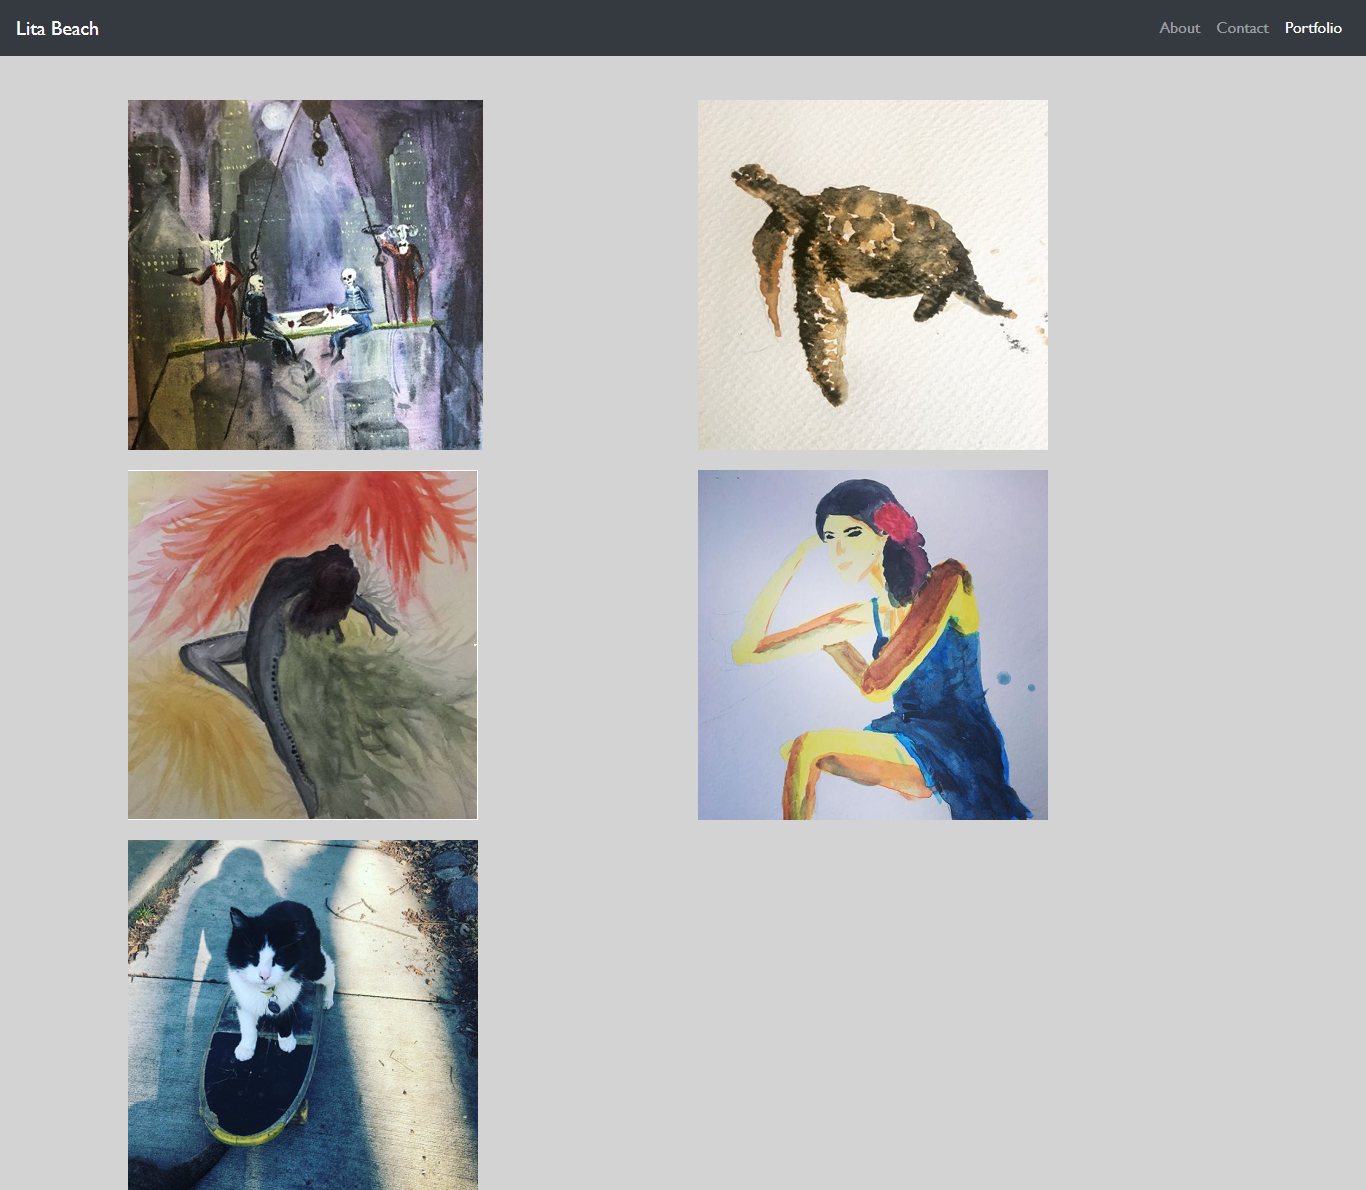
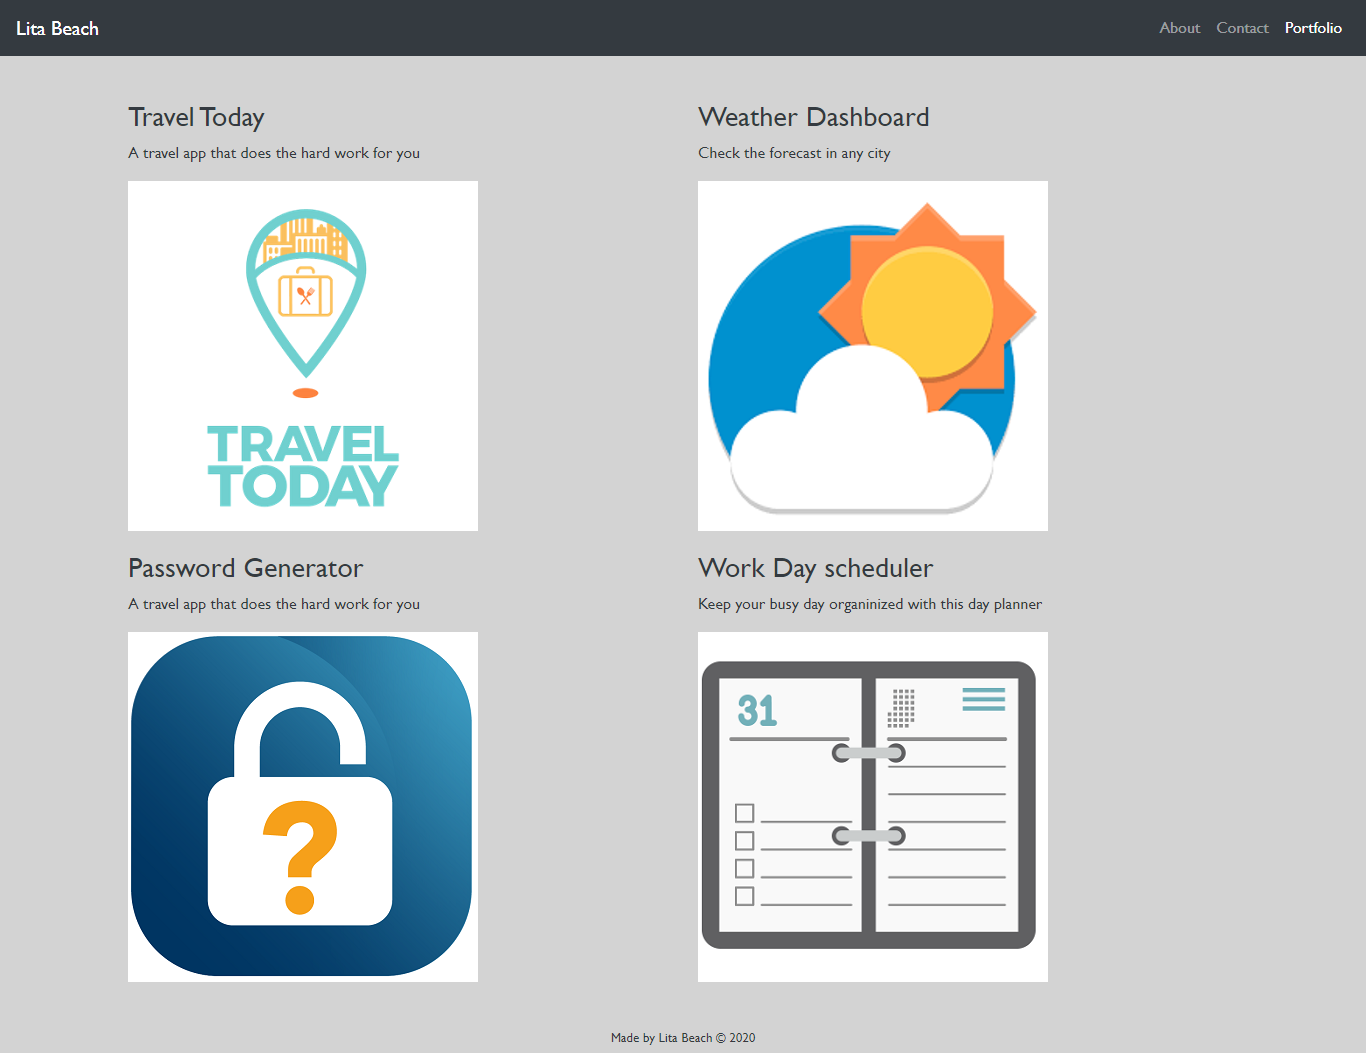
updated portfolio

diff --git a/portfolio.html b/portfolio.html
@@ -1,78 +1,103 @@
 <!DOCTYPE html>
 <html lang="en">
-<head>
-    <meta charset="UTF-8">
-    <meta name="viewport" content="width=device-width, initial-scale=1.0">
-    <title>Portfolio</title>
 
-    <!-- Bootsrap CSS link -->
-    <link rel="stylesheet" href="https://stackpath.bootstrapcdn.com/bootstrap/4.3.1/css/bootstrap.min.css" integrity="sha384-ggOyR0iXCbMQv3Xipma34MD+dH/1fQ784/j6cY/iJTQUOhcWr7x9JvoRxT2MZw1T" crossorigin="anonymous">
-    <!-- Local CSS link -->
-    <link rel="stylesheet" href="02-CSS-Bootstrap/Assets/styles.css">
-    
+<head>
+  <meta charset="UTF-8">
+  <meta name="viewport" content="width=device-width, initial-scale=1.0">
+  <title>Portfolio</title>
+
+  <!-- Bootsrap CSS link -->
+  <link rel="stylesheet" href="https://stackpath.bootstrapcdn.com/bootstrap/4.3.1/css/bootstrap.min.css"
+    integrity="sha384-ggOyR0iXCbMQv3Xipma34MD+dH/1fQ784/j6cY/iJTQUOhcWr7x9JvoRxT2MZw1T" crossorigin="anonymous">
+  <!-- Local CSS link -->
+  <link rel="stylesheet" href="02-CSS-Bootstrap/Assets/styles.css">
+
 </head>
+
 <body>
 
   <!-- Nav Bar -->
   <nav class="navbar navbar-dark navbar-expand-md bg-dark justify-content-center">
     <a href="index.html" class="navbar-brand d-flex w-50 mr-auto">Lita Beach</a>
     <button class="navbar-toggler" type="button" data-toggle="collapse" data-target="#collapsingNavbar3">
-        <span class="navbar-toggler-icon"></span>
+      <span class="navbar-toggler-icon"></span>
     </button>
     <div class="navbar-collapse collapse w-100" id="collapsingNavbar3">
-        <ul class="nav navbar-nav ml-auto w-100 justify-content-end">
-          <li class="nav-item">
-            <a class="nav-link" href="index.html">About <span class="sr-only">(current)</span></a>
-          </li>
-          <li class="nav-item">
-            <a class="nav-link" href="contact.html">Contact</a>
-          </li>
-          <li class="nav-item active">
-              <a class="nav-link" href="portfolio.html">Portfolio</a>
-          </li>
-        </ul>
+      <ul class="nav navbar-nav ml-auto w-100 justify-content-end">
+        <li class="nav-item">
+          <a class="nav-link" href="index.html">About <span class="sr-only">(current)</span></a>
+        </li>
+        <li class="nav-item">
+          <a class="nav-link" href="contact.html">Contact</a>
+        </li>
+        <li class="nav-item active">
+          <a class="nav-link" href="portfolio.html">Portfolio</a>
+        </li>
+      </ul>
     </div>
-</nav>
-        <br>
-          
-        <!-- Photos -->
-          <main class ="container">
-            <div class ="row">
-              <div class="col-lg-6">
-                <img src="02-CSS-Bootstrap/Assets/Images2/skulls.jpg" class="img-fluid" alt="Acrylic painting of two skeletons having lunch on the beam of a high rise">
-              </div>
-              <div class="col-lg-6">
-                <img src="02-CSS-Bootstrap/Assets/Images2/turtle.JPG" class="img-fluid" alt="Watercolor painting of a brown turtle">
-              </div>
-            </div>
+  </nav>
+  <br>
 
-            <!-- Row 2 -->
-            <div class ="row">
-              <div class="col-lg-6">
-                <img src="02-CSS-Bootstrap/Assets/Images2/splash.png" class="img-fluid" alt="watercolor painting of a woman being splashed with colorful waves">
-              </div>
-              <div class="col-lg-6">
-                <img src="02-CSS-Bootstrap/Assets/Images2/woman.png" class="img-fluid" alt="watercolor painting of a woman in a dress looking pensive.">
-              </div>
-            </div>
+  <!-- Photos -->
+  <main class="container">
+    <div class="row">
+      <div class="col-lg-6">
+        <h3>Travel Today</h3>
+        <p> A travel app that does the hard work for you</p>
+        <a href="https://litabeach.github.io/Travel-Today/">
+          <img src="02-CSS-Bootstrap/Assets/Images2/travel-today-logo.png" class="img-fluid"
+            alt="a light blue logo for a travel app that incorporates a knife and fork and a suitcase">
+        </a>
+      </div>
+      <div class="col-lg-6">
+        <h3>Weather Dashboard</h3>
+        <p> Check the forecast in any city</p>
+        <a href="https://litabeach.github.io/Weather-Dashboard/">
+          <img src="02-CSS-Bootstrap/Assets/Images2/weather.png" class="img-fluid"
+            alt="an icon of a blue sky with a sun partly behind a cloud">
+        </a>
+      </div>
+    </div>
 
-                <!-- Row 3 -->
-            <div class ="row">
-              <div class="col-lg-6">
-                <img src="02-CSS-Bootstrap/Assets/Images2/cow.png" class="img-fluid" alt="photograph of a black and white cat riding a skateboard">
-              </div>
-            </div>
-          </main>
+    <!-- Row 2 -->
+    <div class="row">
+      <div class="col-lg-6">
+        <h3>Password Generator</h3>
+        <p> A travel app that does the hard work for you</p>
+        <a href="https://litabeach.github.io/Javascript-Password-Generator/03-Javascript/Develop/">
+        <img src="02-CSS-Bootstrap/Assets/Images2/password.png" class="img-fluid"
+          alt="watercolor painting of a woman being splashed with colorful waves">
+        </a>
+      </div>
+      <div class="col-lg-6">
+        <h3>Work Day scheduler</h3>
+        <p>Keep your busy day organinized with this day planner</p>
+        <a href="https://litabeach.github.io/Work-Day-Scheduler/">
+        <img src="02-CSS-Bootstrap/Assets/Images2/planner.png" class="img-fluid"
+          alt="icon of a blank day planner">
+        </a>
+      </div>
+    </div>
+  </main>
 
-        <!-- footer -->
-        <footer>
-          <h2>Made by Lita Beach &copy; 2020</h2> 
-        </footer>
+  <!-- footer -->
+  <footer>
+    <br>
+    <br>
+    <h2>Made by Lita Beach &copy; 2020</h2>
+  </footer>
 
-    <!-- Bootstrap Javacript link -->
-    <script src="https://code.jquery.com/jquery-3.3.1.slim.min.js" integrity="sha384-q8i/X+965DzO0rT7abK41JStQIAqVgRVzpbzo5smXKp4YfRvH+8abtTE1Pi6jizo" crossorigin="anonymous"></script>
-    <script src="https://cdnjs.cloudflare.com/ajax/libs/popper.js/1.14.7/umd/popper.min.js" integrity="sha384-UO2eT0CpHqdSJQ6hJty5KVphtPhzWj9WO1clHTMGa3JDZwrnQq4sF86dIHNDz0W1" crossorigin="anonymous"></script>
-    <script src="https://stackpath.bootstrapcdn.com/bootstrap/4.3.1/js/bootstrap.min.js" integrity="sha384-JjSmVgyd0p3pXB1rRibZUAYoIIy6OrQ6VrjIEaFf/nJGzIxFDsf4x0xIM+B07jRM" crossorigin="anonymous"></script>
+  <!-- Bootstrap Javacript link -->
+  <script src="https://code.jquery.com/jquery-3.3.1.slim.min.js"
+    integrity="sha384-q8i/X+965DzO0rT7abK41JStQIAqVgRVzpbzo5smXKp4YfRvH+8abtTE1Pi6jizo"
+    crossorigin="anonymous"></script>
+  <script src="https://cdnjs.cloudflare.com/ajax/libs/popper.js/1.14.7/umd/popper.min.js"
+    integrity="sha384-UO2eT0CpHqdSJQ6hJty5KVphtPhzWj9WO1clHTMGa3JDZwrnQq4sF86dIHNDz0W1"
+    crossorigin="anonymous"></script>
+  <script src="https://stackpath.bootstrapcdn.com/bootstrap/4.3.1/js/bootstrap.min.js"
+    integrity="sha384-JjSmVgyd0p3pXB1rRibZUAYoIIy6OrQ6VrjIEaFf/nJGzIxFDsf4x0xIM+B07jRM"
+    crossorigin="anonymous"></script>
 
-  </body>
+</body>
+
 </html>

diff --git a/02-CSS-Bootstrap/Assets/styles.css b/02-CSS-Bootstrap/Assets/styles.css
@@ -9,7 +9,7 @@ h2 {
 }
 
 footer {
-  position: fixed;
+  position: relative;
   left: 0;
   bottom: 0;
   width: 100%;
@@ -17,7 +17,8 @@ footer {
 
 body, .card {
     background-color:lightgrey;
-    font-family: 'Gill Sans', 'Gill Sans MT', Calibri, 'Trebuchet MS', sans-serif
+    font-family: 'Gill Sans', 'Gill Sans MT', Calibri, 'Trebuchet MS', sans-serif;
+    color: #343a40;
   }
 
 .col-lg-6 {
